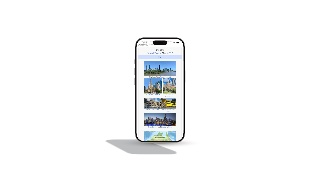
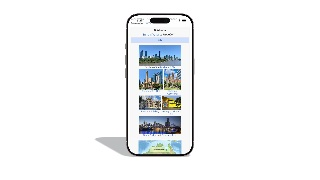
feat: device presets drop the forced shadow and retitle the card

Changed region(s): [[0.2812, 0.0556, 0.625, 0.8889]]

diff --git a/projects/preview-lab/scenes/kind-device.tsx b/projects/preview-lab/scenes/kind-device.tsx
@@ -1,19 +1,55 @@
-import { Device, defineScene, SceneStage, useFormat, useSceneDevices } from "@kookaburra/toolkit";
+import {
+  AnimatedHeadline,
+  Device,
+  defineScene,
+  SceneStage,
+  useFormat,
+  useSceneDevices,
+  useSceneText,
+  useTheme,
+} from "@kookaburra/toolkit";
 
 /**
- * Preview Lab: New-scene kind card for "Device + media". DEV-ONLY, rendered by
+ * Preview Lab: New-scene kind card for "Device + title". DEV-ONLY, rendered by
  * `pnpm kookaburra:run --action option-previews` into the committed kind-picker stills;
- * mirrors the scaffolded device-scene composition with the wizard's default device.
+ * mirrors the scaffolded device-scene composition (title above the wizard's default
+ * device) with the scaffolder's current defaults.
  */
 export default defineScene({
   id: "lab-kind-device",
   durationMs: 3000,
   Scene() {
+    const theme = useTheme();
     const format = useFormat();
     const portrait = format.aspect < 1;
+    const title = useSceneText("title");
+    const subtitle = useSceneText("subtitle");
     const devices = useSceneDevices();
     return (
       <SceneStage>
+        <color attach="background" args={[theme.colors.background]} />
+        {title ? (
+          <AnimatedHeadline
+            text={title}
+            textKey="title"
+            from={200}
+            to={900}
+            position={[0, portrait ? 1.9 : 1.72, 0]}
+            fontSize={portrait ? 0.23 : 0.42}
+          />
+        ) : null}
+        {subtitle ? (
+          <AnimatedHeadline
+            text={subtitle}
+            textKey="subtitle"
+            face="body"
+            defaultColor="muted"
+            from={550}
+            to={1250}
+            position={[0, portrait ? 1.68 : 1.34, 0]}
+            fontSize={(portrait ? 0.23 : 0.42) / theme.typography.scale ** 4}
+          />
+        ) : null}
         {devices.map((d) => (
           <Device
             key={d.id}

diff --git a/src/ui/SceneWizards.tsx b/src/ui/SceneWizards.tsx
@@ -70,7 +70,7 @@ type SceneKind =
   | "blank";
 
 const KIND_OPTIONS: { id: SceneKind; label: string; blurb: string }[] = [
-  { id: "device", label: "Device + media", blurb: "A phone playing your video or image" },
+  { id: "device", label: "Device + title", blurb: "A titled phone playing your media" },
   { id: "deviceonly", label: "Device only", blurb: "A centred phone with no title copy" },
   { id: "title", label: "Title", blurb: "A title on the theme background" },
   { id: "titleicon", label: "Title + icon", blurb: "A title with an icon above it" },

diff --git a/src-tauri/src/scene_doc.rs b/src-tauri/src/scene_doc.rs
@@ -726,11 +726,9 @@ pub async fn scaffold_scene(
             "placement": placement,
             "motion": { "preset": options.motion_preset.as_deref().unwrap_or("none") },
         });
-        // Device-only omits the field so Device auto-resolves: real map shadows over a staged floor, the soft blob when floating. An explicit option still wins.
+        // Both device kinds omit the field so Device auto-resolves: real map shadows over a staged floor, the soft blob when floating. An explicit option still wins.
         if let Some(shadow) = options.shadow.as_deref() {
             device["shadow"] = json!(shadow);
-        } else if !device_only {
-            device["shadow"] = json!("soft");
         }
         if let (Some(rel), Some(kind)) = (&options.media_rel, &options.media_kind) {
             device["media"] = json!({ "src": rel, "kind": kind });

diff --git a/.claude/commands/new-scene.md b/.claude/commands/new-scene.md
@@ -36,11 +36,11 @@ Steps:
    `title`/`subtitle` only when the user gave copy (`headline` is the legacy key on old
    scenes; never write it for new ones). Then per kind:
    - device/deviceonly: one `devices[0]` entry (`id: "d1"`, catalog `model`/`colour`,
-     `media` if given, `motion: { "preset": "none" }`). device: `placement` position
-     `[0, -0.3, 0]`, `rotationDeg: [0, 0, 0]`, `scale: 1`, `shadow: "soft"`. deviceonly:
-     position `[0, 0, 0]` (no title to clear), `scale: 1.35` (dominant framing),
-     `ground: true` (rests on a staged floor when the theme has one) and NO `shadow` key,
-     so Device auto-resolves it (map shadows over a floor, soft blob when floating).
+     `media` if given, `motion: { "preset": "none" }`) and NO `shadow` key for either
+     kind, so Device auto-resolves it (map shadows over a staged floor, soft blob when
+     floating). device: `placement` position `[0, -0.3, 0]`, `rotationDeg: [0, 0, 0]`,
+     `scale: 1`. deviceonly: position `[0, 0, 0]` (no title to clear), `scale: 1.35`
+     (dominant framing), `ground: true` (rests on a staged floor when the theme has one).
    - titleicon: `headerIcon` (the user's emoji or `assets/` image path, else `"🚀"`).
    - overlaystart/overlayend: `frame` = `{ "cutout": { "shape": "rounded-rect", "side":
      "start"|"end" }, "background": "background", "chip": { "label": "New", "icon":
